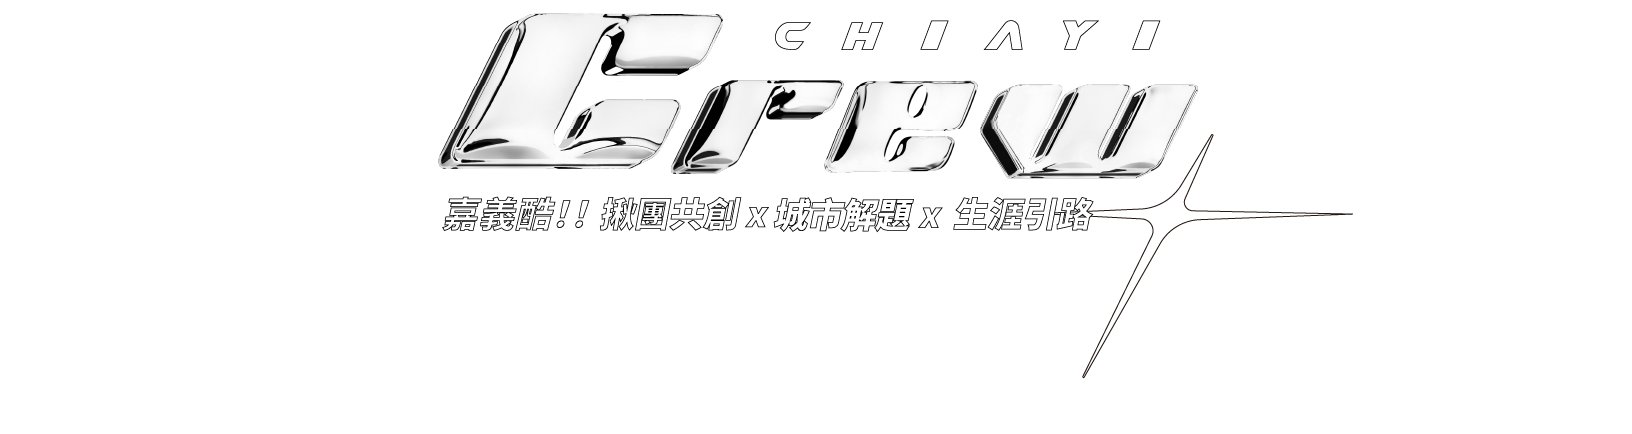
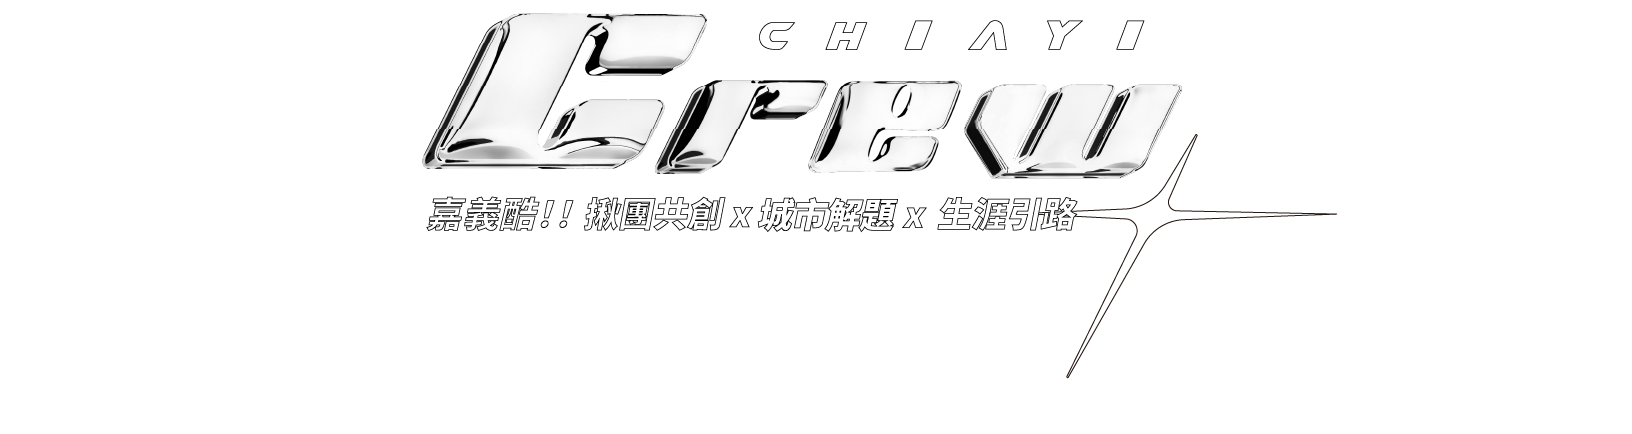
top line using css

diff --git a/css/intro-page.css b/css/intro-page.css
@@ -123,7 +123,7 @@ body {
     /* position: absolute; */
     width: 110%;
     margin: auto;
-    transform: translateY(-35%);
+    transform: translate(-5%, -35%);
     z-index: 3;
 }
 
@@ -320,3 +320,34 @@ a:hover, a:hover::after {
     height: 1rem;
     left: 0.2rem;
 } */
+
+.vertical-line {
+    width: 0.5px; 
+    background-color: white;
+    position: absolute;
+    left: 50%;
+    top: 45%;
+    height: 0px;
+}
+#top-crew-wrap {
+    position: relative;
+    height: auto;
+}
+
+.animsition {
+    overflow-x: hidden;
+}
+
+@keyframes drawLine {
+  from {
+    height: 0;
+  }
+  to {
+    height: 30%;
+  }
+}
+
+.vertical-line.in-view  { 
+    animation: drawLine 1s forwards ease-out;
+}
+

diff --git a/index.html b/index.html
@@ -103,8 +103,10 @@ Join the Crew, Make Chiayi Cool!" />
 			<div id="color-container" class="container">
 				<div class="row justify-content-center">
 					<img id="top-house" src="./img/web_house.png">
-					<img id="top-crew" src="./img/web_title.png">
-
+					<div id="top-crew-wrap">
+						<img id="top-crew" src="./img/web_title.png">
+						<div data-scroll-reveal="enter bottom move 0px over 0.5s after 0.2s" class="vertical-line"></div>
+					</div>
 					<div class="col-md-9 text-center mb-0 lead" data-scroll-reveal="enter bottom move 30px over 0.5s after 0.2s">
 						<p class="mb-0 pb-0">共 創 聯 合 成 果</p>
 					</div>

diff --git a/js/custom.js b/js/custom.js
@@ -78,6 +78,20 @@
 	/* Scroll Animation */
 	
 	window.scrollReveal = new scrollReveal();
+	
+	const vlines = document.querySelectorAll('.vertical-line');
+    const observer = new IntersectionObserver((entries) => {
+      entries.forEach(entry => {
+        if (entry.isIntersecting) {
+          entry.target.classList.add('in-view');
+          observer.unobserve(entry.target);
+        }
+      });
+    }, {
+      rootMargin: '-15% 0px -15% 0px' // 進畫面 80% 才觸發
+    });
+
+    vlines.forEach(vline => observer.observe(vline));
 
 	
 	//Navigation
